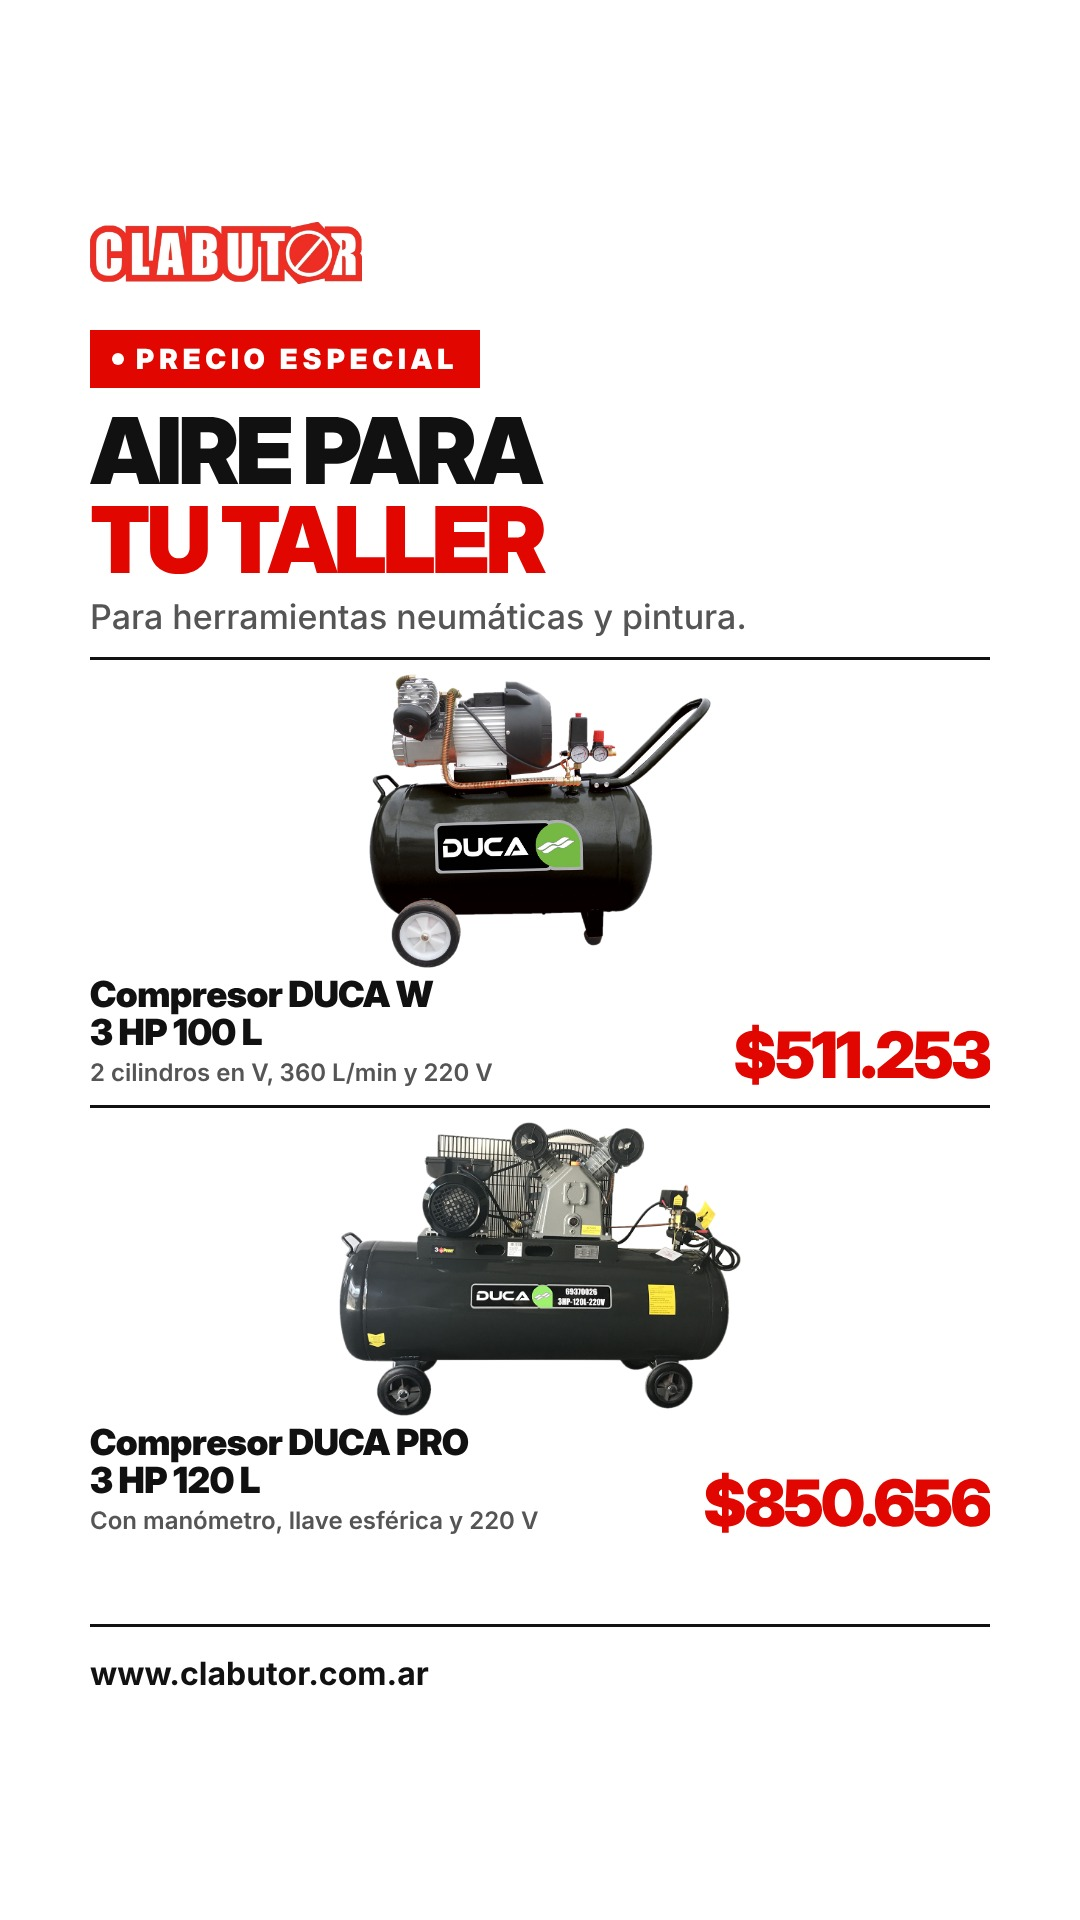
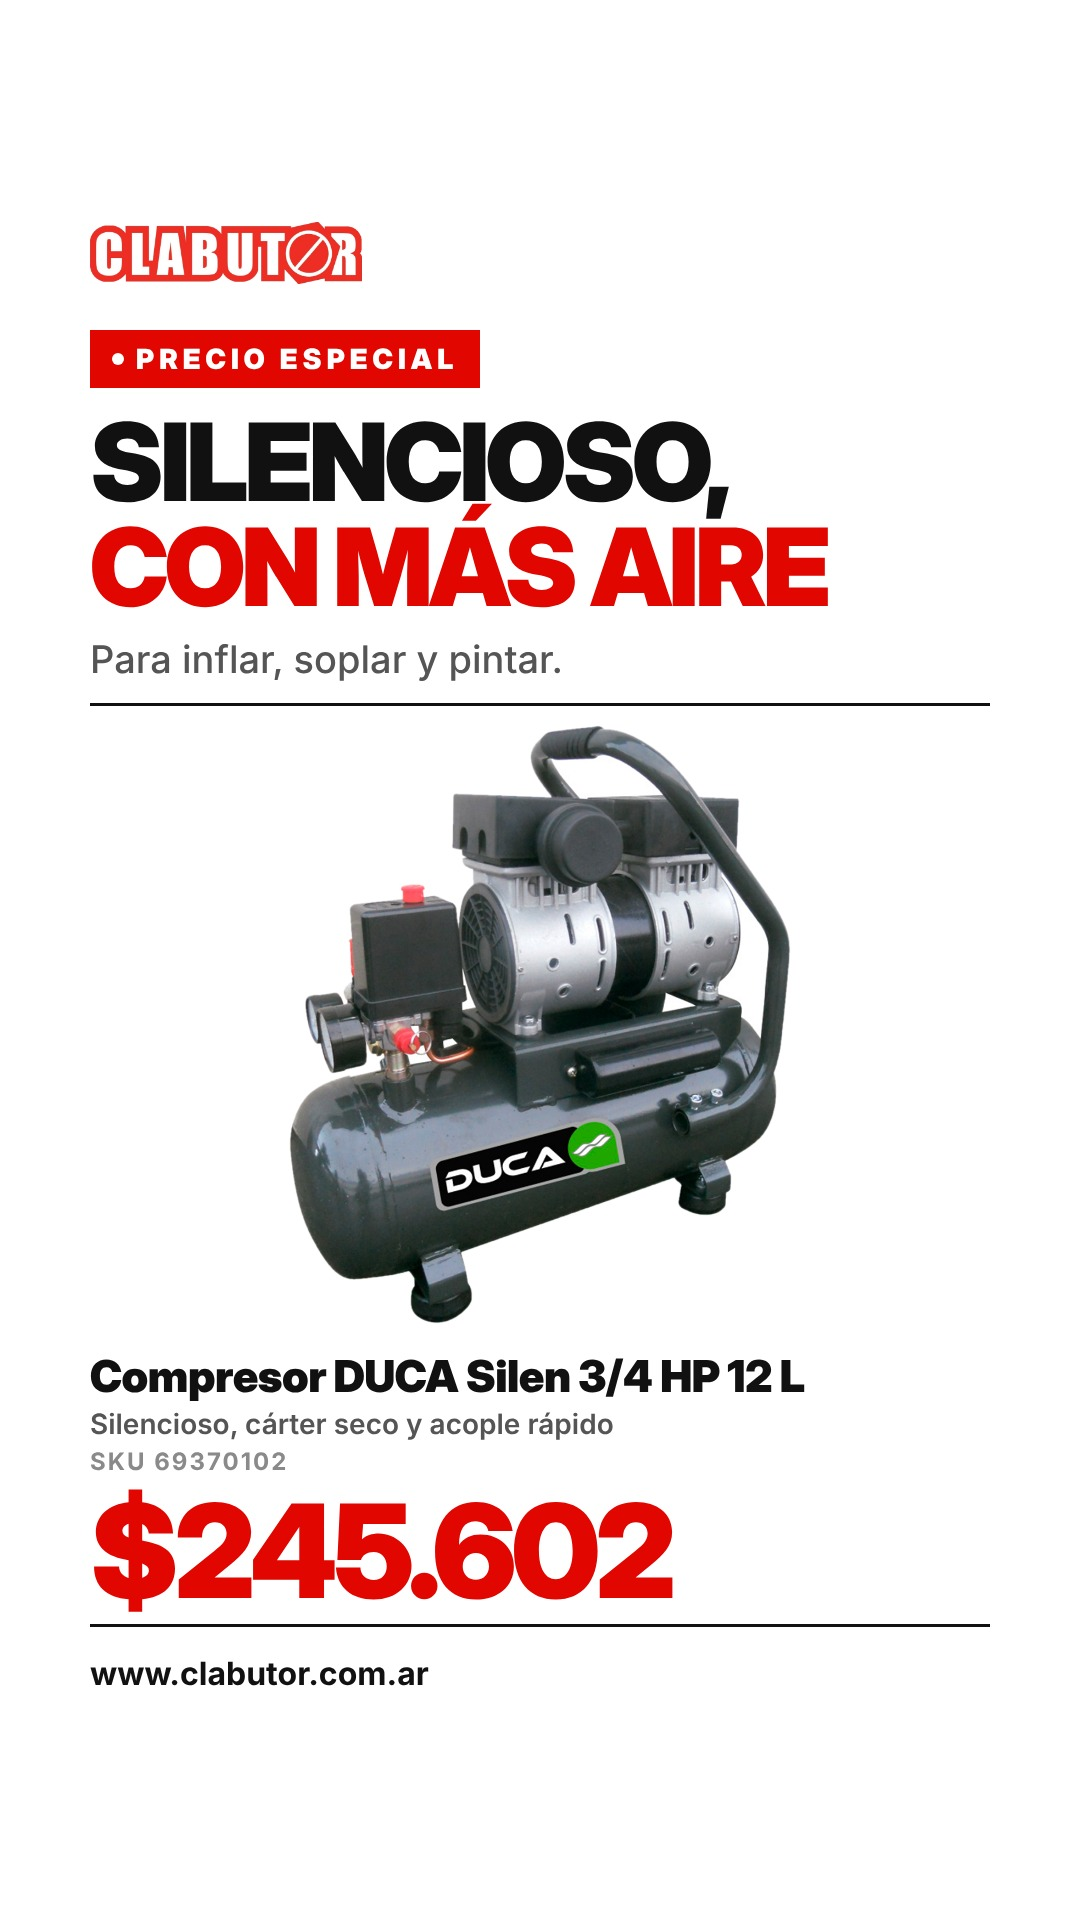
Compresores domingo: un compresor por historia, con SKU
Claude-Session: https://claude.ai/code/session_01XbJLpPx7CCs1ipZpL6GiAh

Changed region(s): [[0.0611, 0.2188, 0.9167, 0.8438]]

diff --git a/disenos/posteos/historia-compresores-domingo.py b/disenos/posteos/historia-compresores-domingo.py
@@ -1,5 +1,5 @@
 """Historias — Domingo para equiparte: compresores con precio especial (contenido tal cual MARKETING PRODUCTOS CONTENIDO).
-Portada informativa (con barras, compresor FEMA a correa 500 L 69370226) + 3 historias de producto (sin barras), 2 compresores por historia.
+Portada informativa (con barras, compresor FEMA a correa 500 L 69370226) + 6 historias de producto (sin barras), un compresor por historia, con SKU.
 Compresores con stock en BaseLinker (INVENTARIO COMPLETO FEMA 2026 MATIAS, grupo 65271) al 22/11 y foto del Drive.
 Precio = costo BaseLinker + 35 % (no lleva envío gratis: el contenido dice "Envíos a todo el país")."""
 
@@ -12,20 +12,20 @@ ROJO = "#E10600"
 NEGRO = "#111111"
 MARGEN = 1.35
 
-# sku, nombre, característica, costo BaseLinker
-GRUPOS = [
-    ("Chicos y<br><em>silenciosos</em>", "Para el hogar y trabajos livianos.", [
-        ("69370100", "Compresor DUCA Silen<br>3/4 HP 6 L", "Silencioso, cárter seco y 2 manómetros", 186700.8),
-        ("69370102", "Compresor DUCA Silen<br>3/4 HP 12 L", "Silencioso, cárter seco y acople rápido", 181927.2),
-    ]),
-    ("Aire para<br><em>tu taller</em>", "Para herramientas neumáticas y pintura.", [
-        ("69370024", "Compresor DUCA W<br>3 HP 100 L", "2 cilindros en V, 360 L/min y 220 V", 378705.6),
-        ("69370026", "Compresor DUCA PRO<br>3 HP 120 L", "Con manómetro, llave esférica y 220 V", 630115.2),
-    ]),
-    ("Uso<br><em>profesional</em>", "Para talleres grandes e industria.", [
-        ("69370221", "Compresor FEMA a correa<br>3 HP 280 L", "Monofásico, con manómetro y patas", 1003516.8),
-        ("69370052", "Compresor DUCA PRO<br>5,5 HP 330 L", "Trifásico 380 V, con manómetro", 1357470.4),
-    ]),
+# sku, nombre, característica, costo BaseLinker, título, uso
+PRODUCTOS = [
+    ("69370100", "Compresor DUCA Silen 3/4 HP 6 L", "Silencioso, cárter seco y 2 manómetros", 186700.8,
+     "Silencioso<br><em>y portátil</em>", "Para el hogar y trabajos livianos."),
+    ("69370102", "Compresor DUCA Silen 3/4 HP 12 L", "Silencioso, cárter seco y acople rápido", 181927.2,
+     "Silencioso,<br><em>con más aire</em>", "Para inflar, soplar y pintar."),
+    ("69370024", "Compresor DUCA W 3 HP 100 L", "2 cilindros en V, 360 L/min y 220 V", 378705.6,
+     "Aire para<br><em>tu taller</em>", "Para herramientas neumáticas y pintura."),
+    ("69370026", "Compresor DUCA PRO 3 HP 120 L", "Con manómetro, llave esférica y 220 V", 630115.2,
+     "Más reserva<br><em>de aire</em>", "Para trabajar todo el día en el taller."),
+    ("69370221", "Compresor FEMA a correa 3 HP 280 L", "Monofásico, con manómetro y patas", 1003516.8,
+     "Potencia<br><em>a correa</em>", "Para talleres grandes, sin conexión trifásica."),
+    ("69370052", "Compresor DUCA PRO 5,5 HP 330 L", "Trifásico 380 V, con manómetro", 1357470.4,
+     "Uso<br><em>profesional</em>", "Para la industria y el trabajo continuo."),
 ]
 
 
@@ -42,17 +42,17 @@ def camion(tam=70):
             f'stroke="#fff" stroke-width="8" stroke-linejoin="round"/><circle cx="22" cy="56" r="9" fill="#fff"/><circle cx="76" cy="56" r="9" fill="#fff"/></svg>')
 
 
-def tarjeta(sku, nombre, rasgo, costo):
-    return f'''<div style="display:flex;flex-direction:column;height:430px;border-top:3px solid {NEGRO};padding-top:14px">
-  <div style="flex:1;min-height:0;display:flex;align-items:center;justify-content:center">{foto(sku, "max-width:92%;max-height:100%")}</div>
-  <div style="display:flex;align-items:flex-end;justify-content:space-between;gap:20px;margin-top:8px">
-    <div>
-      <div style="font-family:Titular;font-weight:900;font-size:36px;line-height:1.05;letter-spacing:-.5px">{nombre}</div>
-      <div style="font-weight:600;font-size:24px;color:#555;margin-top:6px">{rasgo}</div>
-    </div>
-    <div style="font-family:Titular;font-weight:900;font-size:64px;letter-spacing:-2px;line-height:1;color:{ROJO};white-space:nowrap">{pesos(costo * MARGEN)}</div>
-  </div>
-</div>'''
+def placa_producto(g, sku, nombre, rasgo, costo, titulo, uso):
+    return g.MARCA_PRODUCTO + f'''
+<div class="pildora"><i></i>PRECIO ESPECIAL</div>
+<h1 style="font-size:108px;margin-top:22px;white-space:nowrap">{titulo}</h1>
+<p class="bajada" style="font-size:38px;margin-top:16px">{uso}</p>
+<div style="height:640px;margin-top:20px;border-top:3px solid {NEGRO};display:flex;align-items:center;justify-content:center">{foto(sku, "max-width:96%;max-height:600px")}</div>
+<div style="font-family:Titular;font-weight:900;font-size:44px;line-height:1.05;letter-spacing:-.5px;margin-top:10px">{nombre}</div>
+<div style="font-weight:600;font-size:28px;color:#555;margin-top:8px">{rasgo}</div>
+<div style="font-weight:700;font-size:24px;letter-spacing:2px;color:#8A8A8A;margin-top:6px">SKU {sku}</div>
+<div style="font-family:Titular;font-weight:900;font-size:130px;letter-spacing:-5px;line-height:1;color:{ROJO};margin-top:10px">{pesos(costo * MARGEN)}</div>
+'''
 
 
 def placas(g):
@@ -68,12 +68,5 @@ def placas(g):
 </div>
 '''
     salida = [("blanca colores-marca", portada)]
-    for titulo, bajada, prods in GRUPOS:
-        html = g.MARCA_PRODUCTO + f'''
-<div class="pildora"><i></i>PRECIO ESPECIAL</div>
-<h1 style="font-size:92px;margin-top:18px;white-space:nowrap">{titulo}</h1>
-<p class="bajada" style="font-size:34px;margin-top:12px">{bajada}</p>
-<div style="display:flex;flex-direction:column;gap:18px;margin-top:18px">{"".join(tarjeta(*p) for p in prods)}</div>
-'''
-        salida.append(("blanca colores-marca", html))
+    salida += [("blanca colores-marca", placa_producto(g, *p)) for p in PRODUCTOS]
     return salida
